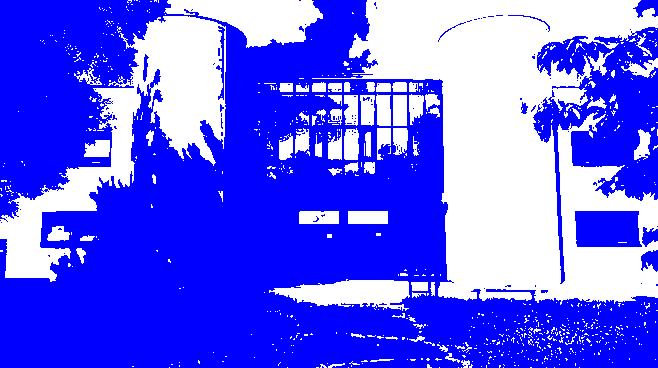
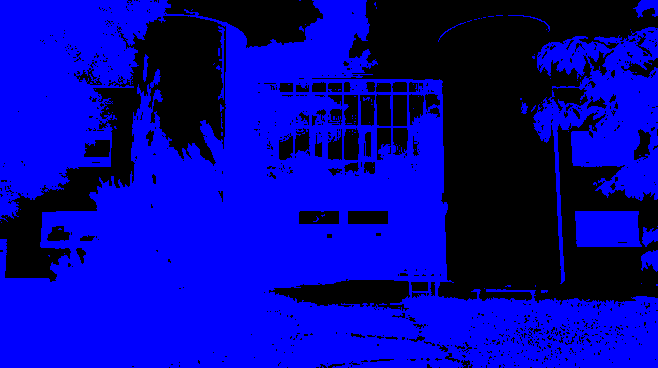
4 Tramage aléatoire

diff --git a/ditherpunk/src/main.rs b/ditherpunk/src/main.rs
@@ -21,14 +21,25 @@ struct DitherArgs {
 #[argh(subcommand)]
 enum Mode {
     Seuil(OptsSeuil),
-    Palette(OptsPalette),
-    Couleurs(OptsCouleurs)
+    Palette(OptsPalette)
 }
 
 #[derive(Debug, Clone, PartialEq, FromArgs)]
 #[argh(subcommand, name="seuil")]
 /// Rendu de l’image par seuillage monochrome.
-struct OptsSeuil {}
+struct OptsSeuil {
+    /// seuil de luminance pour le seuillage
+    #[argh(option)]
+    seuil: Option<f32>,
+
+    /// couleur pour les pixels dont la luminance est supérieure au seuil
+    #[argh(option)]
+    couleur1: String,
+
+    /// couleur pour les pixels dont la luminance est inférieure ou égale au seuil
+    #[argh(option)]
+    couleur2: String
+}
 
 #[derive(Debug, Clone, PartialEq, FromArgs)]
 #[argh(subcommand, name="palette")]
@@ -40,15 +51,6 @@ struct OptsPalette {
     n_couleurs: usize
 }
 
-#[derive(Debug, Clone, PartialEq, FromArgs)]
-#[argh(subcommand, name="couleurs")]
-/// Options for rendering the image with a specific list of colors.
-struct OptsCouleurs {
-    /// la liste des couleurs à utiliser, séparées par des virgules
-    #[argh(option)]
-    couleurs: String
-}
-
 const WHITE: image::Rgb<u8> = image::Rgb([255, 255, 255]);
 const GREY: image::Rgb<u8> = image::Rgb([127, 127, 127]);
 const BLACK: image::Rgb<u8> = image::Rgb([0, 0, 0]);
@@ -58,6 +60,37 @@ const GREEN: image::Rgb<u8> = image::Rgb([0, 255, 0]);
 const YELLOW: image::Rgb<u8> = image::Rgb([255, 255, 0]);
 const MAGENTA: image::Rgb<u8> = image::Rgb([255, 0, 255]);
 const CYAN: image::Rgb<u8> = image::Rgb([0, 255, 255]);
+
+fn distance_eucli_btw_colors(c1: image::Rgb<u8>, c2: image::Rgb<u8>) -> f64 {
+    let r1 = c1[0] as f64;
+    let g1 = c1[1] as f64;
+    let b1 = c1[2] as f64;
+
+    let r2 = c2[0] as f64;
+    let g2 = c2[1] as f64;
+    let b2 = c2[2] as f64;
+
+    ((r1 - r2).powi(2) + (g1 - g2).powi(2) + (b1 - b2).powi(2)).sqrt()
+}
+
+fn apply_distance_eucli(rgb_image: &mut image::RgbImage, palette: Vec<image::Rgb<u8>>) {
+    for (_x, _y, pixel) in rgb_image.enumerate_pixels_mut() {
+        let mut min_distance = f64::MAX;
+        let mut closest_color = palette[0];
+
+        for color in &palette {
+            let distance = distance_eucli_btw_colors(*pixel, *color);
+            if distance < min_distance {
+                min_distance = distance;
+                closest_color = *color;
+            }
+        }
+        *pixel = closest_color;
+    }
+    rgb_image
+        .save_with_format("./output/output_palette.png", image::ImageFormat::Png)
+        .unwrap();
+}
 
 fn white_pixel_1_out_of_2(rgb_image: &mut image::RgbImage) {
     for (x, _, pixel) in rgb_image.enumerate_pixels_mut() {
@@ -124,30 +157,51 @@ fn main() -> Result<(), ImageError> {
     //on sauvegarde l'image modifiée
     rgb_image.save_with_format("./output/output.png", image::ImageFormat::Png)?;
 
-    // Appliquer le traitement de seuillage
-    if let Mode::Couleurs(opts) = args.mode {
-        let couleurs = opts.couleurs.split(",").collect::<Vec<&str>>();
-        let mut couleurs_rgb = Vec::new();
-        for couleur in couleurs {
-            match couleur {
-                "BLACK" => couleurs_rgb.push(BLACK),
-                "WHITE" => couleurs_rgb.push(WHITE),
-                "RED" => couleurs_rgb.push(RED),
-                "GREEN" => couleurs_rgb.push(GREEN),
-                "BLUE" => couleurs_rgb.push(BLUE),
-                "YELLOW" => couleurs_rgb.push(YELLOW),
-                "CYAN" => couleurs_rgb.push(CYAN),
-                "MAGENTA" => couleurs_rgb.push(MAGENTA),
-                _ => couleurs_rgb.push(GREY),
+    match args.mode {
+        Mode::Seuil(_) => {
+            let opts = match args.mode {
+                Mode::Seuil(opts) => opts,
+                _ => unreachable!()
+            };
+            let mut couleur1 = WHITE;
+            match opts.couleur1.as_str() {
+                "BLACK" => couleur1 = BLACK,
+                "WHITE" => couleur1 = WHITE,
+                "RED" => couleur1 = RED,
+                "GREEN" => couleur1 = GREEN,
+                "BLUE" => couleur1 = BLUE,
+                "YELLOW" => couleur1 = YELLOW,
+                "CYAN" => couleur1 = CYAN,
+                "MAGENTA" => couleur1 = MAGENTA,
+                "GREY" => couleur1 = GREY,
+                _ => couleur1 = WHITE,
+            }    
+            let mut couleur2 = BLACK;
+            match opts.couleur2.as_str() {
+                "BLACK" => couleur2 = BLACK,
+                "WHITE" => couleur2 = WHITE,
+                "RED" => couleur2 = RED,
+                "GREEN" => couleur2 = GREEN,
+                "BLUE" => couleur2 = BLUE,
+                "YELLOW" => couleur2 = YELLOW,
+                "CYAN" => couleur2 = CYAN,
+                "MAGENTA" => couleur2 = MAGENTA,
+                "GREY" => couleur2 = GREY,
+                _ => couleur2 = BLACK,
             }
-        }
-        apply_threshold_seuillage(&mut rgb_image.clone(), couleurs_rgb[0], couleurs_rgb[1]);
-    } else {
-        apply_threshold_seuillage(&mut rgb_image.clone(), BLACK, WHITE);
-    }
 
-    // Sauvegarder l'image traitée
-    // rgb_image.save_with_format("./output/output_monochrome.png", image::ImageFormat::Png)?;
+            apply_threshold_seuillage(&mut rgb_image.clone(), couleur1, couleur2);
+        }
+        Mode::Palette(opts) => {
+            if (opts.n_couleurs == 0) {
+                println!("Le nombre de couleurs doit être supérieur à 0.");
+                return Ok(());
+            }
+
+            let palette: Vec<image::Rgb<u8>> = vec![BLACK, WHITE, RED, GREEN, BLUE, YELLOW, CYAN, MAGENTA];
+            apply_distance_eucli(&mut rgb_image.clone(), palette[..opts.n_couleurs].to_vec());
+        }
+    }
 
     Ok(())
 }

diff --git a/README.md b/README.md
@@ -71,7 +71,8 @@ Voici le resultat :
 
 ![image monochrome](./ditherpunk/output/output_monochrome.png)
 
-## Exercice 8
+## Question 8
+*Comment calculer la distance entre deux couleurs?*
 
 Nous pouvons lancer le traitement monochrome avec des couleurs de notre choix avec la commande suivante:
 
@@ -79,3 +80,26 @@ Nous pouvons lancer le traitement monochrome avec des couleurs de notre choix av
 cargo run ./img/image_iut.jpg -- couleurs --couleurs "WHITE,BLUE"
 # Le nom des couleurs doit être en majuscule et en anglais (BLACK, WHITE, RED, GREEN, BLUE, YELLOW, CYAN, MAGENTA, GREY)
 ```
+
+## Question 9
+*Implémentation*
+
+La distance entre deux couleurs peut être évaluée de plusieurs façons. Une méthode populaire consiste à utiliser la distance euclidienne dans l’espace colorimétrique RVB (Rouge, Vert, Bleu).
+
+La distance euclidienne entre deux couleurs C<sub>1</sub> = (R<sub>1</sub>, G<sub>1</sub>, B<sub>1</sub>) et C<sub>2</sub> = (R<sub>2</sub>, G<sub>2</sub>, B<sub>2</sub>) est calculée à l’aide de la formule suivante :
+
+$$
+d(C_1, C_2) = \sqrt{(R_1 - R_2)^2 + (G_1 - G_2)^2 + (B_1 - B_2)^2}
+$$
+
+Cette formule fournit une mesure de la différence entre deux couleurs en termes de teinte, de saturation et de luminosité. Une distance faible indique que les couleurs sont très similaires.
+
+## Question 10
+
+Avec la commande suivante :
+
+```bash
+cargo run ./img/image_iut.jpg -- palette --n-couleurs 8
+```
+
+Nous obtenons le résultat suivant : ![image_palette](./ditherpunk/output/output_palette.png)
